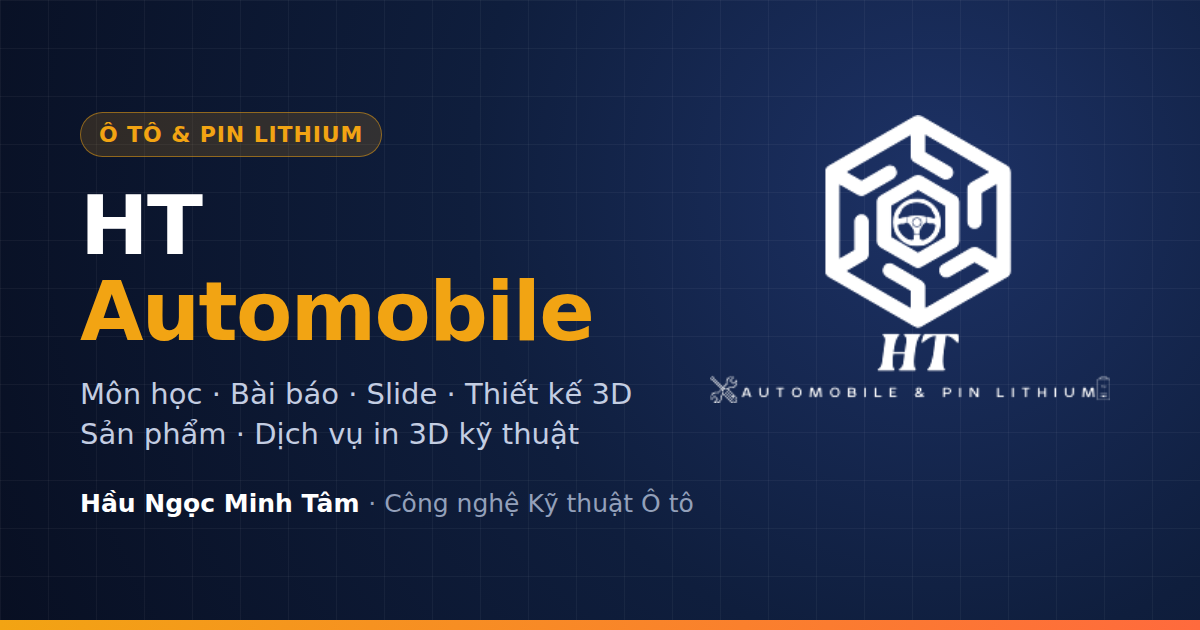
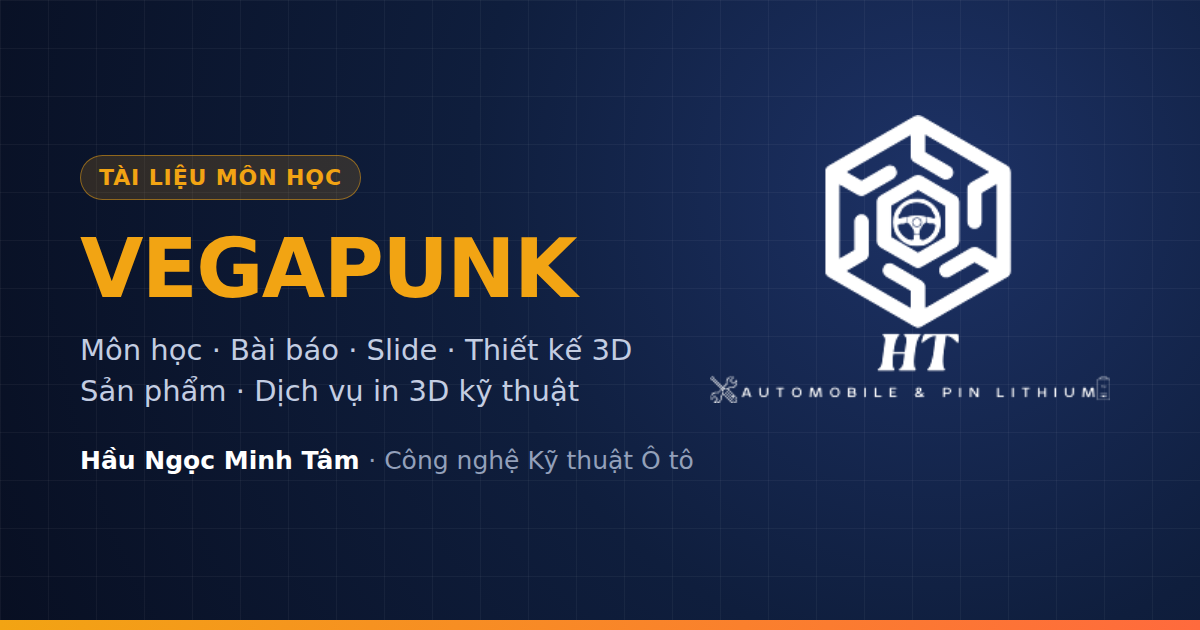
Đổi tên trang thành VEGAPUNK – Tài liệu môn học
Claude-Session: https://claude.ai/code/session_01G2hJ2GNbxAn5wvoQaoCbr5

Changed region(s): [[0.0617, 0.1508, 0.5242, 0.573], [0.0617, 0.6032, 0.5858, 0.754], [0.0617, 0.7841, 0.5858, 0.8143]]

diff --git a/index.html b/index.html
@@ -3,11 +3,11 @@
 <head>
 <meta charset="utf-8">
 <meta name="viewport" content="width=device-width,initial-scale=1,viewport-fit=cover">
-<title>HT Automobile – Hầu Ngọc Minh Tâm</title>
+<title>VEGAPUNK – Hầu Ngọc Minh Tâm</title>
 <meta name="description" content="Hồ sơ học tập ngành Công nghệ Kỹ thuật Ô tô của Hầu Ngọc Minh Tâm – Đại học Lạc Hồng: môn học, bài báo, slide, thiết kế 3D và sản phẩm.">
 <meta property="og:type" content="website">
-<meta property="og:site_name" content="HT Automobile">
-<meta property="og:title" content="HT Automobile – Hầu Ngọc Minh Tâm">
+<meta property="og:site_name" content="VEGAPUNK">
+<meta property="og:title" content="VEGAPUNK – Tài liệu môn học của Hầu Ngọc Minh Tâm">
 <meta property="og:description" content="Môn học, bài báo, slide, thiết kế 3D, sản phẩm và dịch vụ in 3D kỹ thuật của sinh viên Công nghệ Kỹ thuật Ô tô.">
 <meta property="og:url" content="https://hautam0654-glitch.github.io/">
 <meta property="og:image" content="https://hautam0654-glitch.github.io/og.png">
@@ -553,7 +553,7 @@ main.enter :is(.fcard,.sub,.card,.cite):nth-child(n+6){animation-delay:.34s}
 <div class="navwrap"><div class="in topbar">
   <button class="brand" data-go="home" aria-label="Về trang chủ">
     <span class="logo" id="logo-svg"><img src="logo-icon.png" alt="" width="40" height="40"></span>
-    <span><b id="brand-name">HT Automobile</b><span id="brand-sub">Ô tô &amp; Pin Lithium</span></span>
+    <span><b id="brand-name">VEGAPUNK</b><span id="brand-sub">Tài liệu môn học</span></span>
   </button>
   <nav class="nav" id="nav" aria-label="Các mục"></nav>
   <div class="nav-r" id="nav-r"></div>
@@ -827,8 +827,8 @@ function compressImage(file, max){
 }
 
 /* ---------- chrome ---------- */
-const brandName = () => (site().brand && site().brand.name) || "HT Automobile";
-const brandSub = () => (site().brand && site().brand.sub) || "Ô tô & Pin Lithium";
+const brandName = () => (site().brand && site().brand.name) || "VEGAPUNK";
+const brandSub = () => (site().brand && site().brand.sub) || "Tài liệu môn học";
 function fitNav(){ const tb = document.querySelector(".topbar"), nav = $("nav"); if (!tb || !nav) return; tb.classList.remove("wrap"); if (innerWidth > 900 && nav.scrollWidth > nav.clientWidth + 1) tb.classList.add("wrap"); }
 addEventListener("resize", () => { clearTimeout(fitNav.t); fitNav.t = setTimeout(fitNav, 120); });
 if (document.fonts) document.fonts.ready.then(fitNav);
